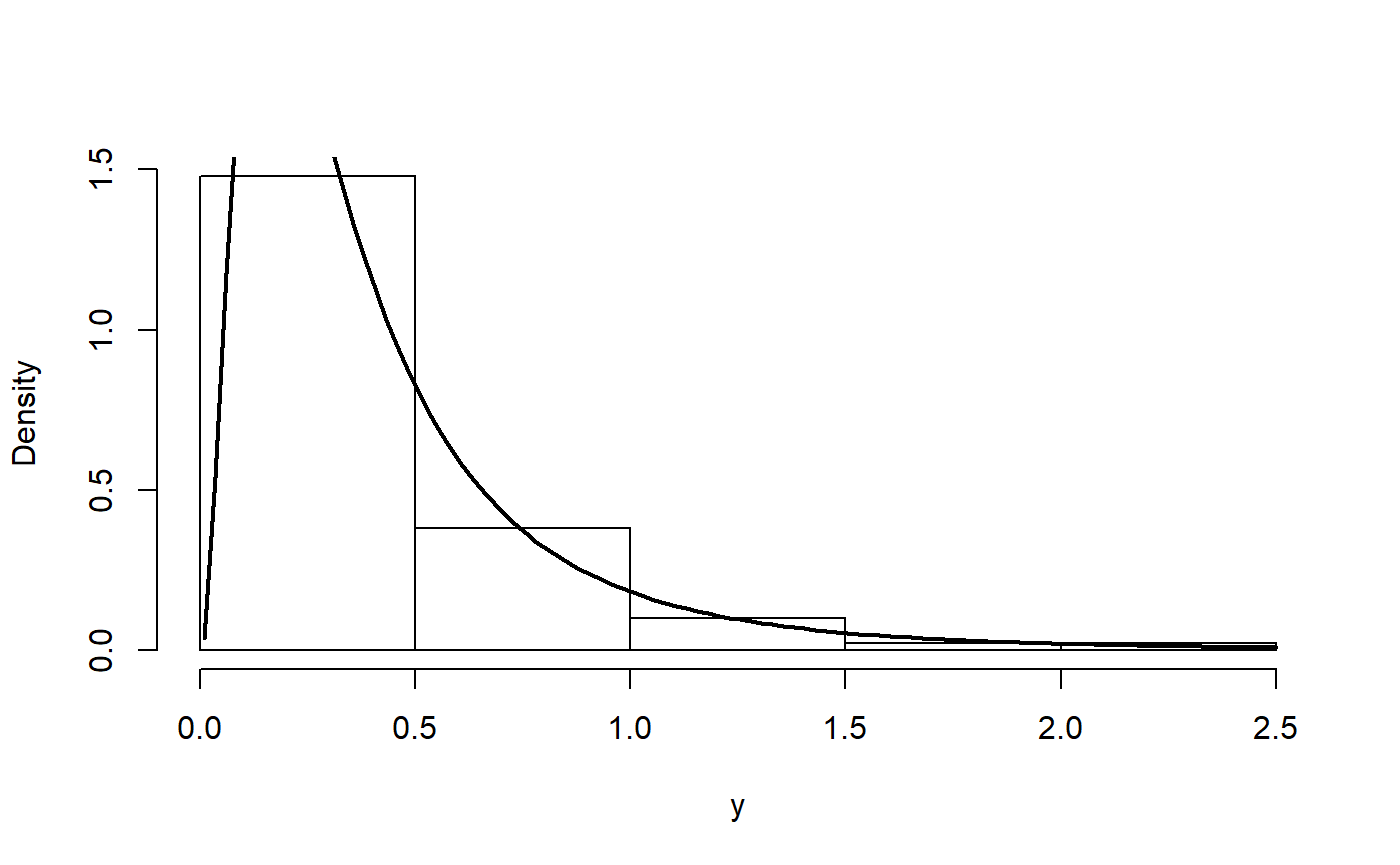
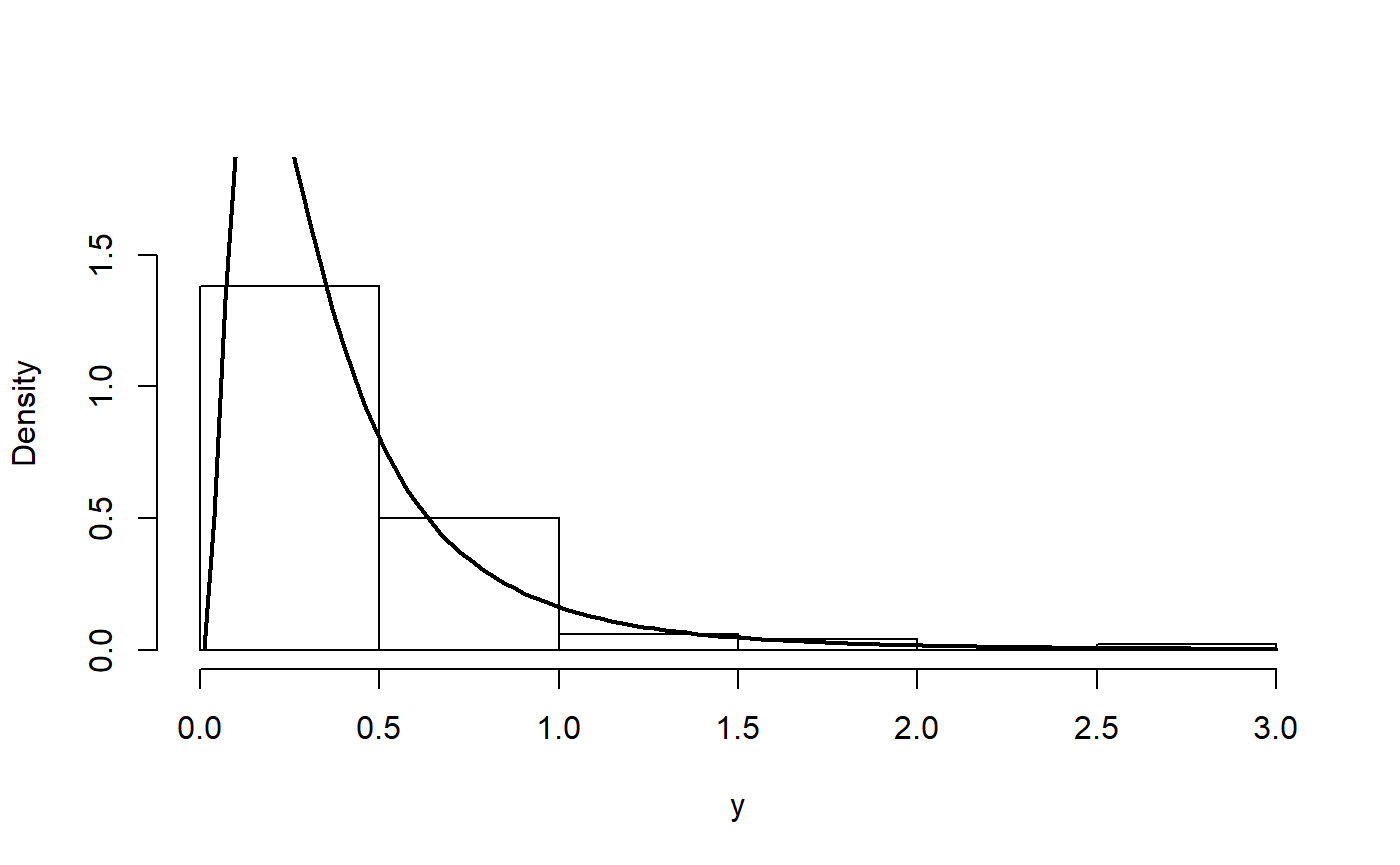
nuevo

diff --git a/docs/articles/EW_distribution.html b/docs/articles/EW_distribution.html
@@ -166,7 +166,7 @@
        <span class="dv">5320</span>, <span class="dv">1400</span>, <span class="dv">3240</span>, <span class="dv">2710</span>, <span class="dv">4520</span>, <span class="dv">4840</span>, <span class="dv">8320</span>, <span class="dv">13900</span>, <span class="dv">71500</span>, <span class="dv">6250</span>,
        <span class="dv">2260</span>, <span class="dv">318</span>, <span class="dv">1330</span>, <span class="dv">970</span>, <span class="dv">1920</span>, <span class="dv">15100</span>, <span class="dv">2870</span>, <span class="dv">20600</span>, <span class="dv">3810</span>, <span class="dv">726</span>,
        <span class="dv">7500</span>, <span class="dv">7170</span>, <span class="dv">2000</span>, <span class="dv">829</span>, <span class="dv">17300</span>, <span class="dv">4740</span>, <span class="dv">13400</span>, <span class="dv">1940</span>, <span class="dv">5660</span>)</code></pre></div>
-<p>To estimate the parameter for the exponentiated Weibull distribution we use the <code>gamlss</code> function from <strong>gamlss</strong> package to estimate the parameters.</p>
+<p>To estimate the parameters for the exponentiated Weibull distribution we use the <code>gamlss</code> function from <strong>gamlss</strong> package.</p>
 <div class="sourceCode"><pre class="sourceCode r"><code class="sourceCode r"><span class="kw">require</span>(RelDists)
 <span class="kw">require</span>(gamlss)
 mod &lt;-<span class="st"> </span><span class="kw">gamlss</span>(y<span class="op">~</span><span class="dv">1</span>, <span class="dt">sigma.fo=</span><span class="op">~</span><span class="dv">1</span>, <span class="dt">nu.fo=</span><span class="op">~</span><span class="dv">1</span>, <span class="dt">family=</span><span class="st">'EW'</span>,
@@ -183,8 +183,7 @@ mod &lt;-<span class="st"> </span><span class="kw">gamlss</span>(y<span class="o
 ##     19.0263</code></pre></div>
 <p>In the next figure we have the histogram for the data and the fitted density. We note that the fitted density explains better the observed data.</p>
 <div class="sourceCode"><pre class="sourceCode r"><code class="sourceCode r"><span class="kw">hist</span>(y, <span class="dt">freq=</span><span class="ot">FALSE</span>, <span class="dt">ylim=</span><span class="kw">c</span>(<span class="dv">0</span>, <span class="fl">0.0002</span>), <span class="dt">breaks=</span><span class="dv">15</span>, <span class="dt">main=</span><span class="st">''</span>)
-<span class="kw">curve</span>(<span class="kw"><a href="../reference/dEW.html">dEW</a></span>(x, <span class="dt">mu=</span><span class="fl">0.23</span>, <span class="dt">sigma=</span><span class="fl">0.33</span>, <span class="dt">nu=</span><span class="fl">19.03</span>), 
-      <span class="dt">from=</span><span class="fl">0.01</span>, <span class="dt">add=</span><span class="ot">TRUE</span>, <span class="dt">lwd=</span><span class="dv">2</span>)</code></pre></div>
+<span class="kw">curve</span>(<span class="kw"><a href="../reference/dEW.html">dEW</a></span>(x, <span class="dt">mu=</span><span class="fl">0.23</span>, <span class="dt">sigma=</span><span class="fl">0.33</span>, <span class="dt">nu=</span><span class="fl">19.03</span>), <span class="dt">from=</span><span class="fl">0.01</span>, <span class="dt">add=</span><span class="ot">TRUE</span>, <span class="dt">lwd=</span><span class="dv">2</span>)</code></pre></div>
 <p><img src="EW_distribution_files/figure-html/EW5-1.png" width="700"></p>
 </div>
 <div id="using-simulated-data" class="section level3">
@@ -198,16 +197,16 @@ mod &lt;-<span class="st"> </span><span class="kw">gamlss</span>(y<span class="o
 <p>To obtain the fitted values for <span class="math inline">\(\mu\)</span>, <span class="math inline">\(\sigma\)</span> and <span class="math inline">\(\nu\)</span> we use the inverse link function <span class="math inline">\(\log()\)</span>.</p>
 <div class="sourceCode"><pre class="sourceCode r"><code class="sourceCode r"><span class="kw">exp</span>(<span class="kw">coef</span>(mod, <span class="dt">what=</span><span class="st">'mu'</span>))
 ## (Intercept) 
-##    4.741527
+##    5.381467
 <span class="kw">exp</span>(<span class="kw">coef</span>(mod, <span class="dt">what=</span><span class="st">'sigma'</span>))
 ## (Intercept) 
-##   0.5028352
+##   0.4433046
 <span class="kw">exp</span>(<span class="kw">coef</span>(mod, <span class="dt">what=</span><span class="st">'nu'</span>))
 ## (Intercept) 
-##    9.398537</code></pre></div>
+##    15.97835</code></pre></div>
 <p>The results show that estimated parameters are close to the true parameters <span class="math inline">\(\mu\)</span>, <span class="math inline">\(\sigma\)</span> and <span class="math inline">\(\nu\)</span>.</p>
-<p>In the next figure we have the empirical density (blue) and the fitted density (black). We note that the fitted density explains better the observed data.</p>
-<div class="sourceCode"><pre class="sourceCode r"><code class="sourceCode r"><span class="kw">hist</span>(y, <span class="dt">freq=</span><span class="ot">FALSE</span>, <span class="dt">main=</span><span class="st">''</span>)
+<p>In the next figure we have the histogram for the data and the fitted density. We note that the fitted density explains better the observed data.</p>
+<div class="sourceCode"><pre class="sourceCode r"><code class="sourceCode r"><span class="kw">hist</span>(y, <span class="dt">freq=</span><span class="ot">FALSE</span>, <span class="dt">main=</span><span class="st">''</span>, <span class="dt">ylim=</span><span class="kw">c</span>(<span class="dv">0</span>, <span class="fl">1.8</span>))
 <span class="kw">curve</span>(<span class="kw"><a href="../reference/dEW.html">dEW</a></span>(x, <span class="dt">mu=</span><span class="kw">exp</span>(<span class="kw">coef</span>(mod, <span class="dt">what=</span><span class="st">'mu'</span>)), 
           <span class="dt">sigma=</span><span class="kw">exp</span>(<span class="kw">coef</span>(mod, <span class="dt">what=</span><span class="st">'sigma'</span>)), 
           <span class="dt">nu=</span><span class="kw">exp</span>(<span class="kw">coef</span>(mod, <span class="dt">what=</span><span class="st">'nu'</span>))), 

diff --git a/docs/articles/FWE_distribution.html b/docs/articles/FWE_distribution.html
@@ -121,7 +121,7 @@ where <span class="math inline">\(\mu &gt; 0\)</span> and <span class="math inli
 <div class="sourceCode"><pre class="sourceCode r"><code class="sourceCode r">y &lt;-<span class="st"> </span><span class="kw">c</span>(<span class="fl">2.160</span>, <span class="fl">0.746</span>, <span class="fl">0.402</span>, <span class="fl">0.954</span>, <span class="fl">0.491</span>, <span class="fl">6.560</span>, <span class="fl">4.992</span>, <span class="fl">0.347</span>,
        <span class="fl">0.150</span>, <span class="fl">0.358</span>, <span class="fl">0.101</span>, <span class="fl">1.359</span>, <span class="fl">3.465</span>, <span class="fl">1.060</span>, <span class="fl">0.614</span>, <span class="fl">1.921</span>,
        <span class="fl">4.082</span>, <span class="fl">0.199</span>, <span class="fl">0.605</span>, <span class="fl">0.273</span>, <span class="fl">0.070</span>, <span class="fl">0.062</span>, <span class="fl">5.320</span>)</code></pre></div>
-<p>To estimate the parameter for the Flexible Weibull extension distribution we use the <code>gamlss</code> function from <strong>gamlss</strong> package to estimate the parameters.</p>
+<p>To estimate the parameters for the Flexible Weibull extension distribution we use the <code>gamlss</code> function from <strong>gamlss</strong> package.</p>
 <div class="sourceCode"><pre class="sourceCode r"><code class="sourceCode r"><span class="kw">require</span>(RelDists)
 <span class="kw">require</span>(gamlss)
 mod &lt;-<span class="st"> </span><span class="kw">gamlss</span>(y<span class="op">~</span><span class="dv">1</span>, <span class="dt">sigma.fo=</span><span class="op">~</span><span class="dv">1</span>, <span class="dt">family=</span><span class="st">'FWE'</span>,
@@ -135,8 +135,7 @@ mod &lt;-<span class="st"> </span><span class="kw">gamlss</span>(y<span class="o
 ##   0.2588857</code></pre></div>
 <p>In the next figure we have the histogram for the data and the fitted density. We note that the fitted distribution explains better the observed data.</p>
 <div class="sourceCode"><pre class="sourceCode r"><code class="sourceCode r"><span class="kw">hist</span>(y, <span class="dt">freq=</span><span class="ot">FALSE</span>, <span class="dt">breaks=</span><span class="dv">10</span>, <span class="dt">ylim=</span><span class="kw">c</span>(<span class="dv">0</span>, <span class="fl">1.7</span>), <span class="dt">las=</span><span class="dv">1</span>, <span class="dt">main=</span><span class="st">''</span>)
-<span class="kw">curve</span>(<span class="kw"><a href="../reference/dFWE.html">dFWE</a></span>(x, <span class="dt">mu=</span><span class="fl">0.2065115</span>, <span class="dt">sigma=</span><span class="fl">0.2588857</span>), 
-      <span class="dt">from=</span><span class="fl">0.01</span>, <span class="dt">add=</span><span class="ot">TRUE</span>, <span class="dt">lwd=</span><span class="dv">2</span>)</code></pre></div>
+<span class="kw">curve</span>(<span class="kw"><a href="../reference/dFWE.html">dFWE</a></span>(x, <span class="dt">mu=</span><span class="fl">0.21</span>, <span class="dt">sigma=</span><span class="fl">0.26</span>), <span class="dt">from=</span><span class="fl">0.01</span>, <span class="dt">add=</span><span class="ot">TRUE</span>, <span class="dt">lwd=</span><span class="dv">2</span>)</code></pre></div>
 <p><img src="FWE_distribution_files/figure-html/FWE4-1.png" width="700"></p>
 </div>
 <div id="using-simulated-data" class="section level3">
@@ -150,11 +149,11 @@ mod &lt;-<span class="st"> </span><span class="kw">gamlss</span>(y<span class="o
 <p>To obtain the fitted values for <span class="math inline">\(\mu\)</span> and <span class="math inline">\(\sigma\)</span> we use the inverse link function <span class="math inline">\(\log()\)</span>.</p>
 <div class="sourceCode"><pre class="sourceCode r"><code class="sourceCode r"><span class="kw">exp</span>(<span class="kw">coef</span>(mod, <span class="dt">what=</span><span class="st">'mu'</span>))
 ## (Intercept) 
-##   0.7715534
+##   0.7827744
 <span class="kw">exp</span>(<span class="kw">coef</span>(mod, <span class="dt">what=</span><span class="st">'sigma'</span>))
 ## (Intercept) 
-##   0.6741543</code></pre></div>
-<p>The results show that estimated parameters are close to the true parameters <span class="math inline">\(\mu\)</span>, <span class="math inline">\(\sigma\)</span> and <span class="math inline">\(\nu\)</span>.</p>
+##   0.5278872</code></pre></div>
+<p>The results show that estimated parameters are close to the true parameters <span class="math inline">\(\mu\)</span> and <span class="math inline">\(\sigma\)</span>.</p>
 <p>In the next figure we have the histogram for the data and the fitted density. We note that the fitted density explains better the observed data.</p>
 <div class="sourceCode"><pre class="sourceCode r"><code class="sourceCode r"><span class="kw">hist</span>(y, <span class="dt">freq=</span><span class="ot">FALSE</span>, <span class="dt">breaks=</span><span class="dv">10</span>, <span class="dt">ylim=</span><span class="kw">c</span>(<span class="dv">0</span>, <span class="fl">1.5</span>), <span class="dt">las=</span><span class="dv">1</span>, <span class="dt">main=</span><span class="st">''</span>)
 <span class="kw">curve</span>(<span class="kw"><a href="../reference/dFWE.html">dFWE</a></span>(x, <span class="dt">mu=</span><span class="kw">exp</span>(<span class="kw">coef</span>(mod, <span class="dt">what=</span><span class="st">'mu'</span>)), <span class="dt">sigma=</span><span class="kw">exp</span>(<span class="kw">coef</span>(mod, <span class="dt">what=</span><span class="st">'sigma'</span>))), 
